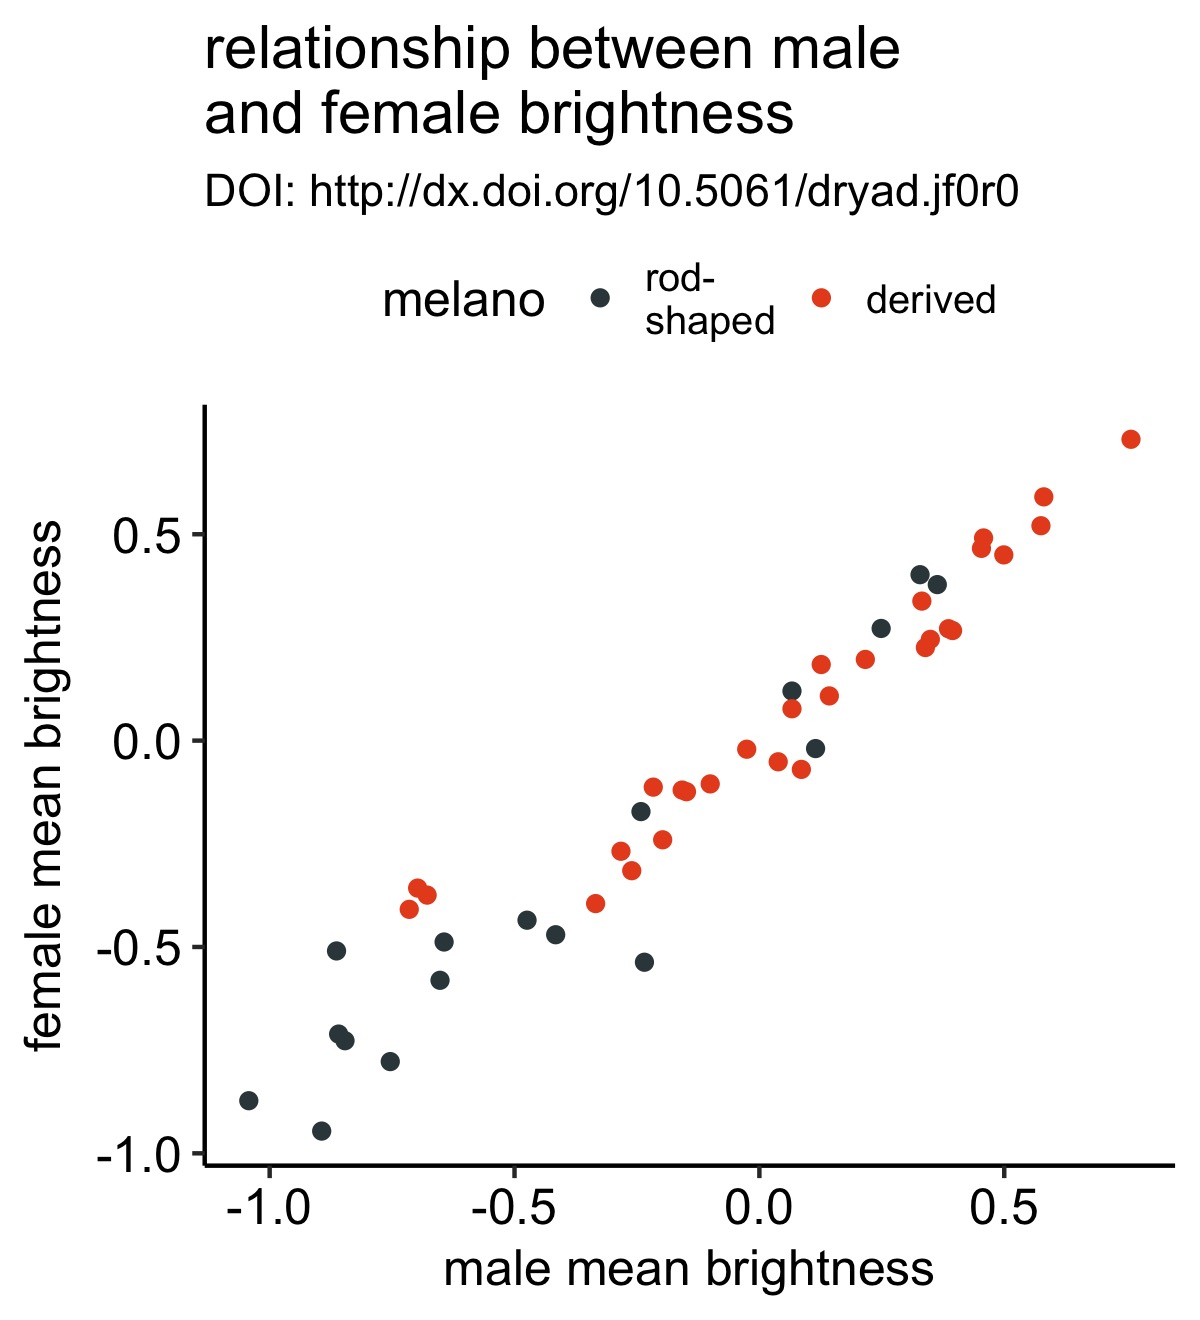
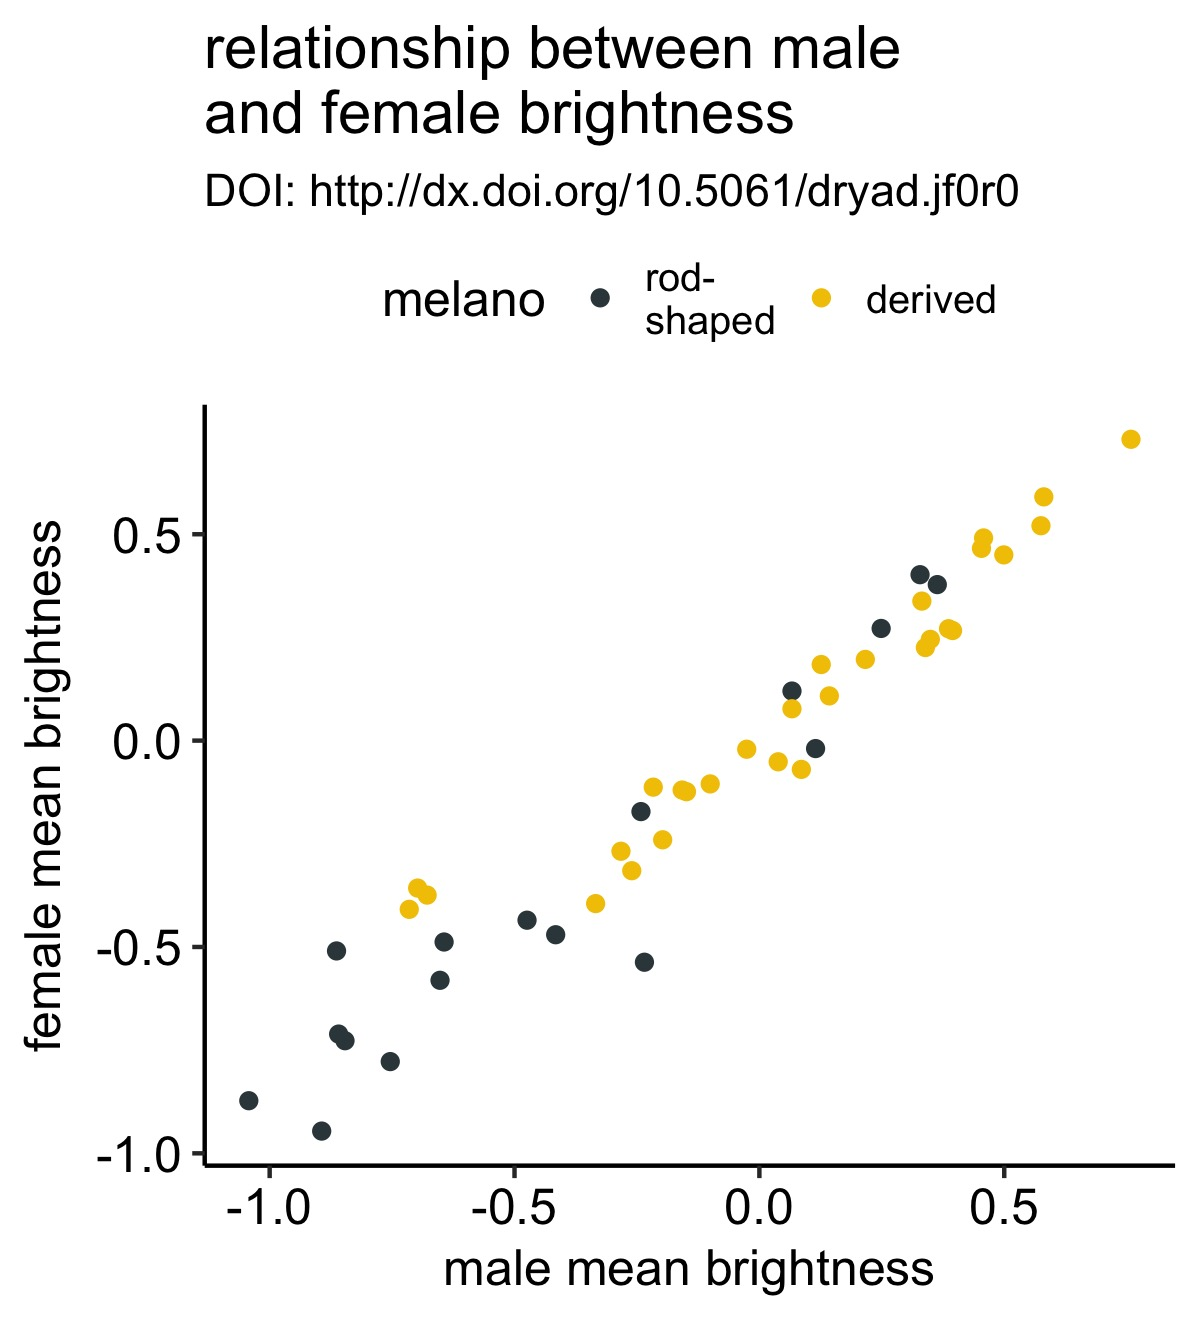
updates

diff --git a/_posts/2017-08-19-cowmarg.md b/_posts/2017-08-19-cowmarg.md
@@ -14,7 +14,7 @@ One easy way that you can use to get yourself in the habit of viewing a dataset 
 
 The problem is that there aren't intuitive ways to add marginal plots in R, espeically when using the dominant plotting package for R, `ggplot2`. There are some solutions, like [ggExtra](https://github.com/daattali/ggExtra), but the APIs used are awkward and not in keeping with `ggplot`'s style. They also aren't flexible enough for complex plots and those that want to be able to customize their plots precisely.
 
-One solution now comes in the version of Claus Wilke's [cowplot](https://github.com/wilkelab/cowplot). A new series of functions provide an easy way to marginal plots. Below I show a series of examples.
+One solution now comes in Claus Wilke's [cowplot](https://github.com/wilkelab/cowplot). A new series of functions provide an easy way to add marginal plots. Below I show a series of examples.
 
 
 
@@ -41,20 +41,18 @@ Let's look at some examples:
 I'll be using data from a paper on African starlings you can find [here](http://onlinelibrary.wiley.com/doi/10.1111/evo.12912/full). 
 
 ```R
-library(tidyverse)
-library(magrittr)
+library(tidyverse) # for ggplot2
+library(magrittr) # for pipes and %<>%
+library(ggpubr) # for theme_pubr()
 
 # to install:
 # devtools::install("wilkelab/cowplot")
 library(cowplot)
-
-# source some ggplot scales and plotting functions used in the plots below
-source("https://raw.githubusercontent.com/lukereding/random_scripts/master/plotting_functions.R")
 ```
 
 We'll start by creating a simple plot between male and female mean plumage brightness. To make things slightly more interesting, we'll color the points according to whether melanosomes—the organelles that produce plumage color—are rod-shaped or derived.
 
-I do some basic cleaning of the data directly from Dryad then create the plot:
+Below I download the data directly from [Dryad](http://datadryad.org/resource/doi:10.5061/dryad.jf0r0), perform some basic cleaning of the data, then c        				reate the plot:
 
 ```r
 # read in the dataframe
@@ -68,15 +66,17 @@ original_plot <- df %>%
   ggplot(aes(x = male.meanB, y = fema.meanB)) + 
   geom_point(aes(color = melano)) +
   theme_pubr() +
-  scale_color_pen() +
+  scale_color_manual(values = c("#37454B", "#F2C500")) +
   labs(x = "male mean brightness", y = "female mean brightness", title = "relationship between male\nand female brightness", subtitle = "DOI: http://dx.doi.org/10.5061/dryad.jf0r0")
+
+original_plot
 ```
 
 ![]({{site.baseurl}}/images/post6/1.jpg)
 
-This is a pretty simple scatterplot with the points colored according to whether the bird species has rod-shaped or derived melanosomes.
+This is a pretty simple scatterplot with the points colored according to whether each bird species has rod-shaped or derived melanosomes.
 
-Let's improve this plot but adding a marginal histogram to the bottom of the plot so that we aren't distracted by the obvious positive correlation in the scatterplot and can focus on whether rod- or derived-species have greater male brightness values:
+Let's improve this plot by adding a marginal histogram to the bottom of the plot so that we aren't distracted by the obvious positive correlation in the scatterplot and can focus on whether rod- or derived-species have greater male brightness values:
 
 
 
@@ -84,7 +84,7 @@ Let's improve this plot but adding a marginal histogram to the bottom of the plo
 # create the histgram for the x-axis with axis_canvas()
 xhist <- axis_canvas(original_plot, axis = "x") +
   geom_histogram(data = df, aes(x = male.meanB, fill = melano)) +
-  scale_fill_pen()
+  scale_fill_manual(values = c("#37454B", "#F2C500")) 
 
 # create the combined plot
 combined_plot <- insert_xaxis_grob(original_plot, xhist, position = "bottom")
@@ -95,7 +95,7 @@ ggdraw(combined_plot)
 
 ![]({{site.baseurl}}/images/post6/2.jpg)
 
-This was very few lines of code and now we have a strikeingly different figure. It's now a bit more obvious to the viewer that males from species with derived melanosomes are brighter.
+This was very few lines of code and now we have a strikingly more mature-looking figure. It's now a bit more obvious to the viewer that males from species with derived melanosomes are brighter.
 
 We can do the same for the y-axis. Instead of using a histogram, I'll use a boxplot:
 
@@ -103,7 +103,7 @@ We can do the same for the y-axis. Instead of using a histogram, I'll use a boxp
 # create the marginal boxplot for the y-axis
 y_box <- axis_canvas(original_plot, axis = "x") +
   geom_boxplot(data = df, aes(y = fema.meanB, x = 0, fill = melano)) +
-  scale_fill_pen() 
+	scale_fill_manual(values = c("#37454B", "#F2C500"))
 
 # create the combined plot
 combined_plot %<>% insert_yaxis_grob(., y_box, position = "right")
@@ -123,15 +123,14 @@ I discovered accidently that you can keep adding these marginal plots if you wis
 # note that `axis = "x"` here because of the use of `coord_flip()`
 y_density <- axis_canvas(original_plot, axis = "x") +
   geom_density(data = df, aes(x = fema.meanB,fill = melano), color = NA, alpha = 0.5) +
-  scale_fill_pen() +
+  scale_fill_manual(values = c("#37454B", "#F2C500")) +
   coord_flip()
 
-# keep adding plots!
-combined_plot %<>% insert_yaxis_grob(., y_density, position = "right", width = grid::unit(0.1, "null"))
+# create the combined plot
+combined_plot %<>% insert_yaxis_grob(., y_density, position = "right")
 
-# plot the combined plot
+# show the result
 ggdraw(combined_plot)
-
 ```
 
 ![]({{site.baseurl}}/images/post6/4.jpg)
@@ -145,12 +144,11 @@ We can improve our figure by removing the legend, which I love to get rid of if 
 xhist <- axis_canvas(original_plot, axis = "x") +
   geom_histogram(data = df, aes(x = male.meanB, fill = melano)) +
   geom_text(data = data.frame(x = c(0.6, -0.9), y = c(5, 4), melano = c("rod-\nshaped", "derived")), aes(x = x, y = y, label = melano, color = melano), size = 4) +
-  scale_fill_pen() +
-  scale_color_pen()
+  scale_color_manual(values = c("#37454B", "#F2C500")) +
+  scale_fill_manual(values = c("#37454B", "#F2C500"))
 
-combined_plot <- insert_xaxis_grob(original_plot + scale_color_pen(guide = F), xhist, position = "bottom")
+combined_plot <- insert_xaxis_grob(original_plot, xhist, position = "bottom")
 
-combined_plot %<>% insert_yaxis_grob(., y_box, position = "right")
 ggdraw(combined_plot)
 ```
 
@@ -173,13 +171,13 @@ line_plot <- df %>%
   ggplot(aes(x = male.meanB, y = fema.meanB)) + 
   geom_smooth(aes(color = melano), se = F) +
   theme_pubr() +
-  scale_color_pen(guide = F)+
+  scale_color_manual(values = c("#37454B", "#F2C500"), guide= F) +
   labs(x = "male mean brightness", y = "female mean brightness", title = "relationship between male\nand female brightness", subtitle = "DOI: http://dx.doi.org/10.5061/dryad.jf0r0")
 
 # add labels
 y_labels <- axis_canvas(line_plot, axis = "y") +
   geom_text(data = df %>% group_by(melano) %>% summarise(max_female = max(fema.meanB, na.rm = T)), aes(x = 0, y = max_female, color = melano, label = melano)) +
-  scale_color_pen()
+  scale_color_manual(values = c("#37454B", "#F2C500"))
 
 # make combined plot
 combined_plot <- insert_yaxis_grob(line_plot, y_labels, position = "right")
@@ -201,4 +199,4 @@ Note that there are other ways to do this, but this is approach is sufficently g
 ## take-aways
 
 - marginal plots can reveal aspects of your dataset not previously considered
-- `cowplot` provides a general solution and easy solution for adding marginal plots
+- `cowplot` provides a general and easy solution for adding marginal plots
